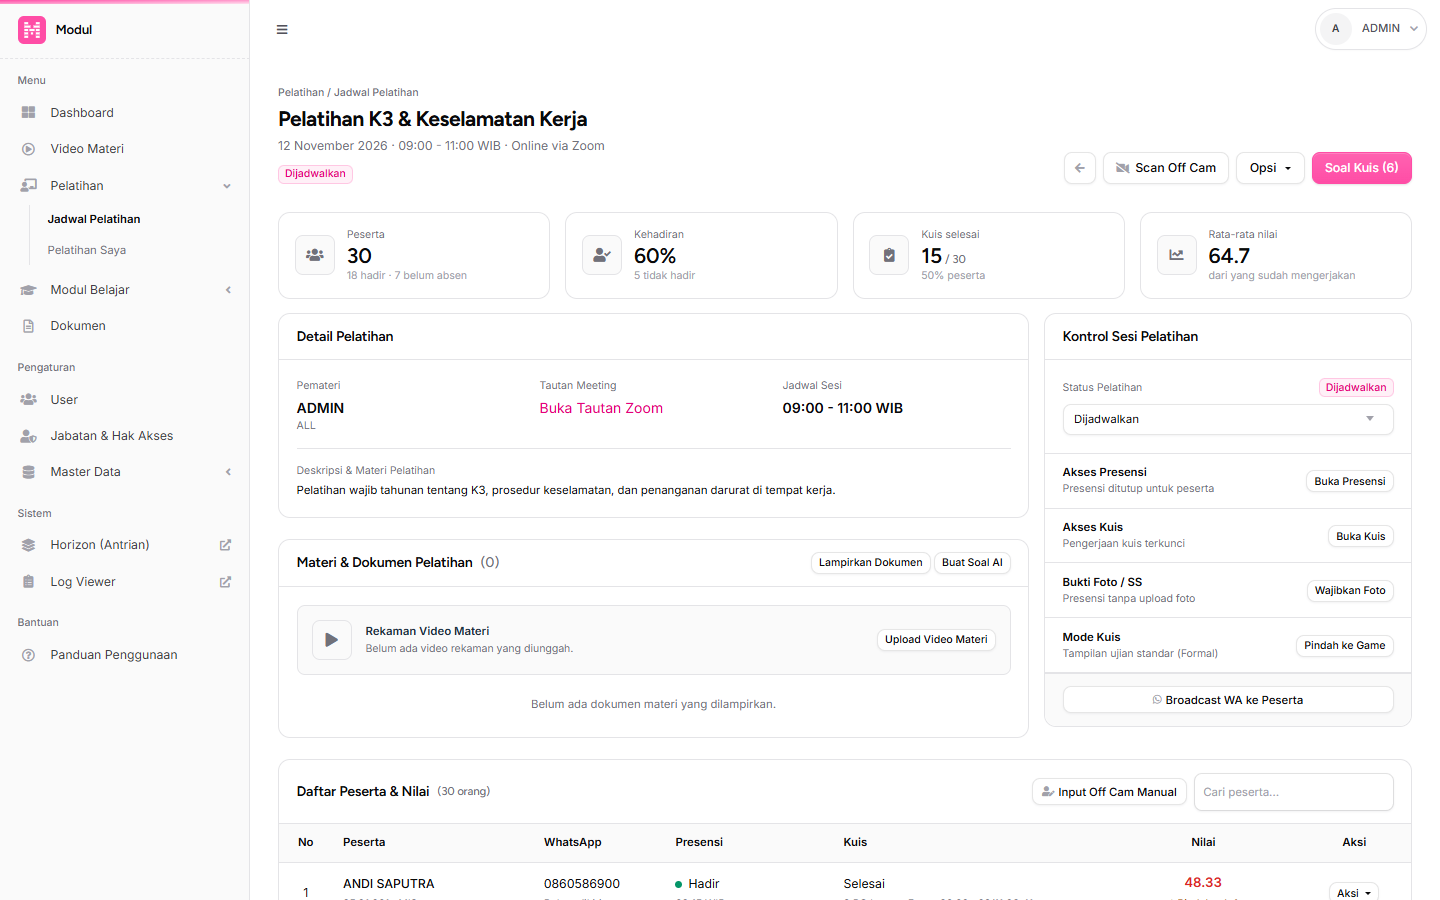
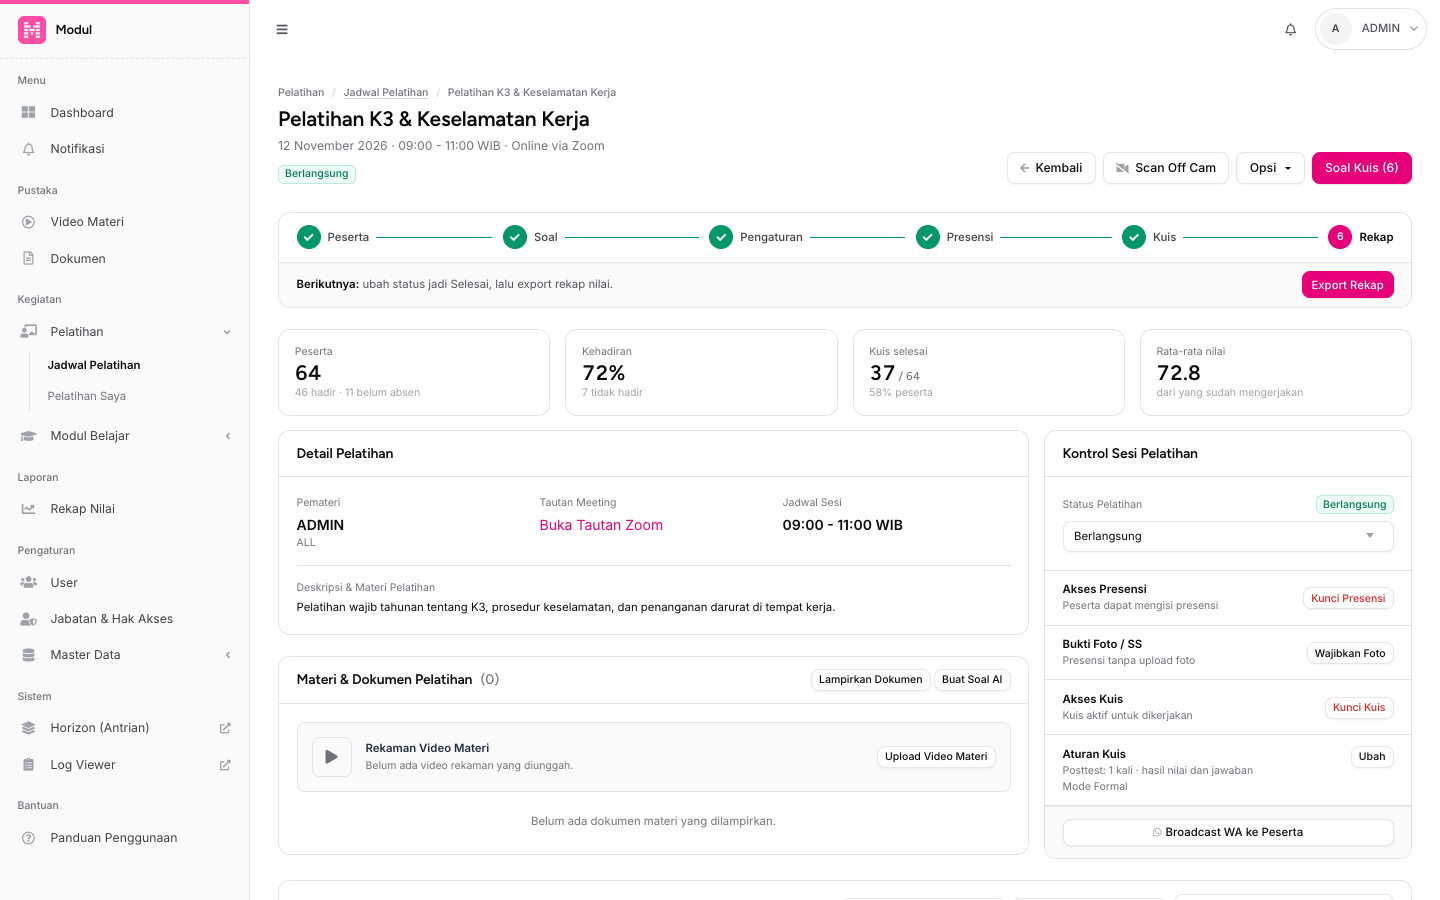
docs: re-record the training guide pictures and explain quiz attempts
Text:
- Participant quiz section no longer says the quiz can be taken only once:
  it covers the pretest, the trainer's attempt limit, Kerjakan Ulang with
  the highest score kept, and answers shown only when the trainer allows.
- The "show more" button in the participant picker is named by what it
  shows, since its number follows the remaining users.

Pictures (sample data from a throwaway database):
- Re-recorded training-create.gif, training-controls.gif and
  training-show.png on the current training form and detail page.
- New training-peserta.gif: paging through participants, searching, and
  opening an answer sheet.

GuidePageTest checks that every picture the guide refers to exists.

diff --git a/resources/views/panduan/index.blade.php b/resources/views/panduan/index.blade.php
@@ -194,12 +194,12 @@
                     <div class="pg-head"><h2>7. Pelatihan</h2></div>
                     <figure class="pg-shot"><img src="/assets/panduan/training-list.gif" alt="Animasi: memfilter dan mencari pelatihan" loading="lazy"><figcaption>Daftar Jadwal Pelatihan: pindah tab dan mencari.</figcaption></figure>
                     <h3>7.1 Membuat pelatihan</h3>
-                    <figure class="pg-shot"><img src="/assets/panduan/training-create.gif" alt="Animasi: mengisi form pelatihan" loading="lazy"><figcaption>Mengisi form pelatihan dan memilih peserta (data contoh).</figcaption></figure>
+                    <figure class="pg-shot"><img src="/assets/panduan/training-create.gif" alt="Animasi: mengisi form pelatihan" loading="lazy"><figcaption>Mengisi form pelatihan, lalu memilih peserta: saring per divisi, <b>Pilih semua</b>, cari nama, dan tampilkan user berikutnya (data contoh).</figcaption></figure>
                     <ol>
                         <li><b>Pelatihan → Jadwal Pelatihan</b>, klik <b>Tambah Pelatihan</b>.</li>
                         <li>Isi <b>Judul</b>, <b>Pemateri</b>, <b>Tanggal</b>, jam, dan <b>Link Meeting</b>.</li>
                         <li>Pilih <b>Dokumen Materi</b> (opsional) dan <b>Mode Kuis</b>: Formal atau Game.</li>
-                        <li>Centang peserta. Daftar menampilkan 100 user dulu; klik <b>Tampilkan 100 berikutnya</b> untuk melihat sisanya, atau saring per divisi dan cari nama, ID karyawan, atau username. Label <b>Tanpa WA</b> = tidak punya nomor WhatsApp.</li>
+                        <li>Centang peserta. Daftar menampilkan 100 user dulu; klik tombol <b>Tampilkan &hellip; berikutnya</b> di bawah daftar untuk melihat sisanya, atau saring per divisi dan cari nama, ID karyawan, atau username. Label <b>Tanpa WA</b> = tidak punya nomor WhatsApp.</li>
                         <li><b>Pilih semua</b> dan <b>Kosongkan</b> berlaku untuk semua user yang cocok dengan pencarian dan filter saat itu, termasuk yang belum tampil. Jumlah terpilih ada di samping judul <b>Peserta</b>, dan pilihan tetap tersimpan saat Anda mengganti pencarian.</li>
                         <li>Klik <b>Simpan &amp; Lanjut Buat Soal</b>. Undangan WA terkirim otomatis.</li>
                         <li>Buat soal (mis. <b>Buat Soal via AI</b>). Setelah tersimpan, jawab pertanyaan <b>Pengaturan</b> satu per satu: buka presensi sekarang dan wajib bukti foto. Aturan kuis diatur di kotak <b>Aturan Kuis</b> pada form pelatihan.</li>
@@ -207,7 +207,7 @@
                     <h3>7.2 Saat sesi berlangsung</h3>
                     <p>Klik <b>Detail</b> pada pelatihan.</p>
                     <figure class="pg-shot"><img src="/assets/panduan/training-show.png" alt="Detail pelatihan" loading="lazy"><figcaption>Halaman detail pelatihan.</figcaption></figure>
-                    <figure class="pg-shot"><img src="/assets/panduan/training-controls.gif" alt="Animasi: kontrol sesi pelatihan" loading="lazy"><figcaption>Kontrol sesi, lampiran dokumen, dan menu Opsi.</figcaption></figure>
+                    <figure class="pg-shot"><img src="/assets/panduan/training-controls.gif" alt="Animasi: kontrol sesi pelatihan" loading="lazy"><figcaption>Langkah pelatihan, kontrol sesi, lampiran dokumen, dan menu Opsi.</figcaption></figure>
                     <ul>
                         <li><b>Buka Presensi</b> agar peserta bisa absen, lalu <b>Buka Kuis</b> saat kuis dimulai.</li>
                         <li><b>Aturan Kuis</b> (di form pelatihan, atau <b>Ubah</b> di Kontrol Sesi): nyalakan <b>Pretest</b> dan/atau <b>Posttest</b>, lalu pilih berapa kali boleh dikerjakan dan apa yang dilihat peserta setelah selesai. Bawaan: hanya posttest, 1 kali. Pretest memakai soal pilihan ganda saja.</li>
@@ -217,6 +217,7 @@
                         <li><b>Daftar Peserta &amp; Nilai</b> menampilkan 50 peserta per halaman. Ketik nama, ID karyawan, No. HP, atau divisi di kotak <b>Cari peserta</b> lalu tekan <b>Enter</b>; pindah halaman lewat nomor halaman di bawah tabel. Angka di kartu ringkasan tetap menghitung semua peserta.</li>
                         <li>Menu <b>Aksi</b> per peserta: lihat <b>Lembar Jawaban</b> (dimuat saat dibuka), kirim WA, atur presensi manual, atau <b>Reset Kuis Peserta</b> agar bisa mengulang.</li>
                     </ul>
+                    <figure class="pg-shot"><img src="/assets/panduan/training-peserta.gif" alt="Animasi: daftar peserta pelatihan, pindah halaman, mencari, dan membuka lembar jawaban" loading="lazy"><figcaption>Daftar peserta: pindah halaman, cari peserta (Enter), lalu <b>Aksi &rarr; Lembar Jawaban</b> (data contoh).</figcaption></figure>
                     <h3>Setelah sesi</h3>
                     <ul>
                         <li><b>Nilai essay:</b> buka Lembar Jawaban peserta, isi <b>Nilai Essay</b>, klik <b>Simpan Nilai</b>.</li>
@@ -323,11 +324,14 @@
                 <div class="pg-card" id="kuispeserta">
                     <div class="pg-head"><h2>13. Mengerjakan kuis</h2></div>
                     <ol>
+                        <li>Bila pelatihan punya <b>pretest</b>, kerjakan dulu sebelum materi: setelah pemateri membukanya, ketuk <b>Mulai Pretest</b>.</li>
                         <li>Setelah kuis dibuka pemateri, ketuk <b>Mulai Kerjakan Kuis</b>.</li>
                         <li>Jawab semua soal, ketuk <b>Kirim Jawaban</b>.</li>
-                        <li>Klik <b>Lihat Pembahasan</b> untuk melihat nilai dan kunci jawaban.</li>
+                        <li>Ketuk <b>Lihat Pembahasan</b> (atau <b>Lihat Hasil</b> untuk pretest) untuk melihat nilai. Kunci jawaban dan pembahasan ikut tampil bila pemateri mengizinkannya; bila tidak, hanya nilainya.</li>
+                        <li>Masih ada sisa percobaan dan kuis masih dibuka? Ketuk <b>Kerjakan Ulang</b>. Nilai yang dipakai adalah nilai <b>tertinggi</b>.</li>
                     </ol>
-                    <div class="pg-warn pg-note">Kuis hanya <b>satu kali</b>. Pindah tab/aplikasi lebih dari 3 kali membuat kuis terkirim otomatis.</div>
+                    <div class="pg-note">Berapa kali kuis boleh dikerjakan ditentukan pemateri: bawaannya <b>satu kali</b>, bisa juga beberapa kali atau tanpa batas, dan pretest punya batasnya sendiri. Aturan ini tertulis di halaman pelatihan sebelum Anda mulai, dan sisa percobaan Anda tertulis di bawah nilai.</div>
+                    <div class="pg-warn pg-note">Pindah tab/aplikasi lebih dari 3 kali membuat kuis terkirim otomatis.</div>
                 </div>
 
                 {{-- 14 --}}
@@ -339,7 +343,7 @@
                         <tr><td>OTP tidak masuk</td><td>Pastikan nomor WA di akun benar, tunggu 60 detik lalu kirim ulang.</td></tr>
                         <tr><td>Menu tidak muncul</td><td>Jabatan belum punya izin. Minta admin mengatur di Jabatan &amp; Hak Akses.</td></tr>
                         <tr><td>Peserta tidak bisa absen</td><td>Pemateri belum klik <b>Buka Presensi</b>.</td></tr>
-                        <tr><td>Peserta tidak bisa membuka kuis</td><td>Kuis belum dibuka, belum ada soal, atau sudah dikerjakan (pakai <b>Reset Kuis Peserta</b>).</td></tr>
+                        <tr><td>Peserta tidak bisa membuka kuis</td><td>Kuis belum dibuka, belum ada soal, atau batas percobaannya sudah habis. Naikkan batas di <b>Aturan Kuis</b>, atau pakai <b>Reset Kuis Peserta</b> untuk menghapus hasil satu peserta agar ia bisa mengulang.</td></tr>
                         <tr><td>WA ke peserta tidak terkirim</td><td>No. HP kosong/salah. Perbaiki di data user, lalu <b>Kirim Notifikasi WA</b>.</td></tr>
                         <tr><td>Video Google Drive tidak bisa diputar</td><td>Ubah akses menjadi "Siapa saja yang memiliki link".</td></tr>
                         <tr><td>Upload gagal / "413 Request Entity Too Large"</td><td>File terlalu besar untuk server. Hubungi administrator.</td></tr>
@@ -349,7 +353,7 @@
                         <tr><td>Soal AI atau Scan Off Cam memuat sangat lama / tidak selesai</td><td>Prosesnya menunggu giliran di antrean; satu proses AI dikerjakan dalam satu waktu. Bila lebih dari 15 menit, minta administrator memastikan antrean (<b>Horizon</b>) berjalan, lalu ulangi.</td></tr>
                         <tr><td>Soal hasil Import Excel belum muncul</td><td>Import berjalan di belakang layar. Tunggu kabarnya di menu <b>Notifikasi</b>, lalu muat ulang halaman soal. Bila notifikasinya "Import soal gagal", perbaiki baris yang disebut dan impor ulang.</td></tr>
                         <tr><td>Peserta tidak terlihat di detail pelatihan</td><td>Tabel menampilkan 50 peserta per halaman. Cari namanya di kotak <b>Cari peserta</b> (tekan Enter) atau buka halaman berikutnya.</td></tr>
-                        <tr><td>User tidak terlihat saat memilih peserta</td><td>Daftar menampilkan 100 user dulu. Ketik nama, ID karyawan, atau username di kotak pencarian, atau klik <b>Tampilkan 100 berikutnya</b>.</td></tr>
+                        <tr><td>User tidak terlihat saat memilih peserta</td><td>Daftar menampilkan 100 user dulu. Ketik nama, ID karyawan, atau username di kotak pencarian, atau klik tombol <b>Tampilkan &hellip; berikutnya</b> di bawah daftar.</td></tr>
                     </table>
                 </div>
 

diff --git a/tests/Feature/GuidePageTest.php b/tests/Feature/GuidePageTest.php
@@ -1,0 +1,42 @@
+<?php
+
+namespace Tests\Feature;
+
+use App\Models\User;
+use Tests\TestCase;
+
+/**
+ * Halaman Panduan Penggunaan: gambar yang dirujuk harus ada, dan isinya mengikuti cara kerja aplikasi saat ini.
+ */
+class GuidePageTest extends TestCase
+{
+    public function test_every_guide_image_exists(): void
+    {
+        $html = $this->actingAs(User::factory()->staff()->create())->get('/panduan')->assertOk()->getContent();
+
+        preg_match_all('#src="(/assets/panduan/[^"]+)"#', $html, $matches);
+
+        $this->assertNotEmpty($matches[1]);
+        foreach (array_unique($matches[1]) as $src) {
+            $this->assertFileExists(public_path(ltrim($src, '/')), "Gambar panduan {$src} tidak ada di folder public.");
+        }
+    }
+
+    public function test_guide_describes_background_processing_pagination_and_quiz_attempts(): void
+    {
+        $this->actingAs(User::factory()->staff()->create())->get('/panduan')
+            ->assertOk()
+            // Import soal dan proses AI berjalan di belakang layar.
+            ->assertSee('Import Excel / CSV berjalan di belakang layar')
+            ->assertSee('seluruh file dibatalkan')
+            ->assertSee('Proses AI')
+            // Daftar yang dipaginasi dan pemilih peserta bertahap.
+            ->assertSee('25 user per halaman')
+            ->assertSee('50 peserta per halaman')
+            ->assertSee('Daftar menampilkan 100 user dulu')
+            ->assertSee('training-peserta.gif', false)
+            // Batas percobaan kuis ditentukan pemateri.
+            ->assertSee('Kerjakan Ulang')
+            ->assertDontSee('Kuis hanya');
+    }
+}
